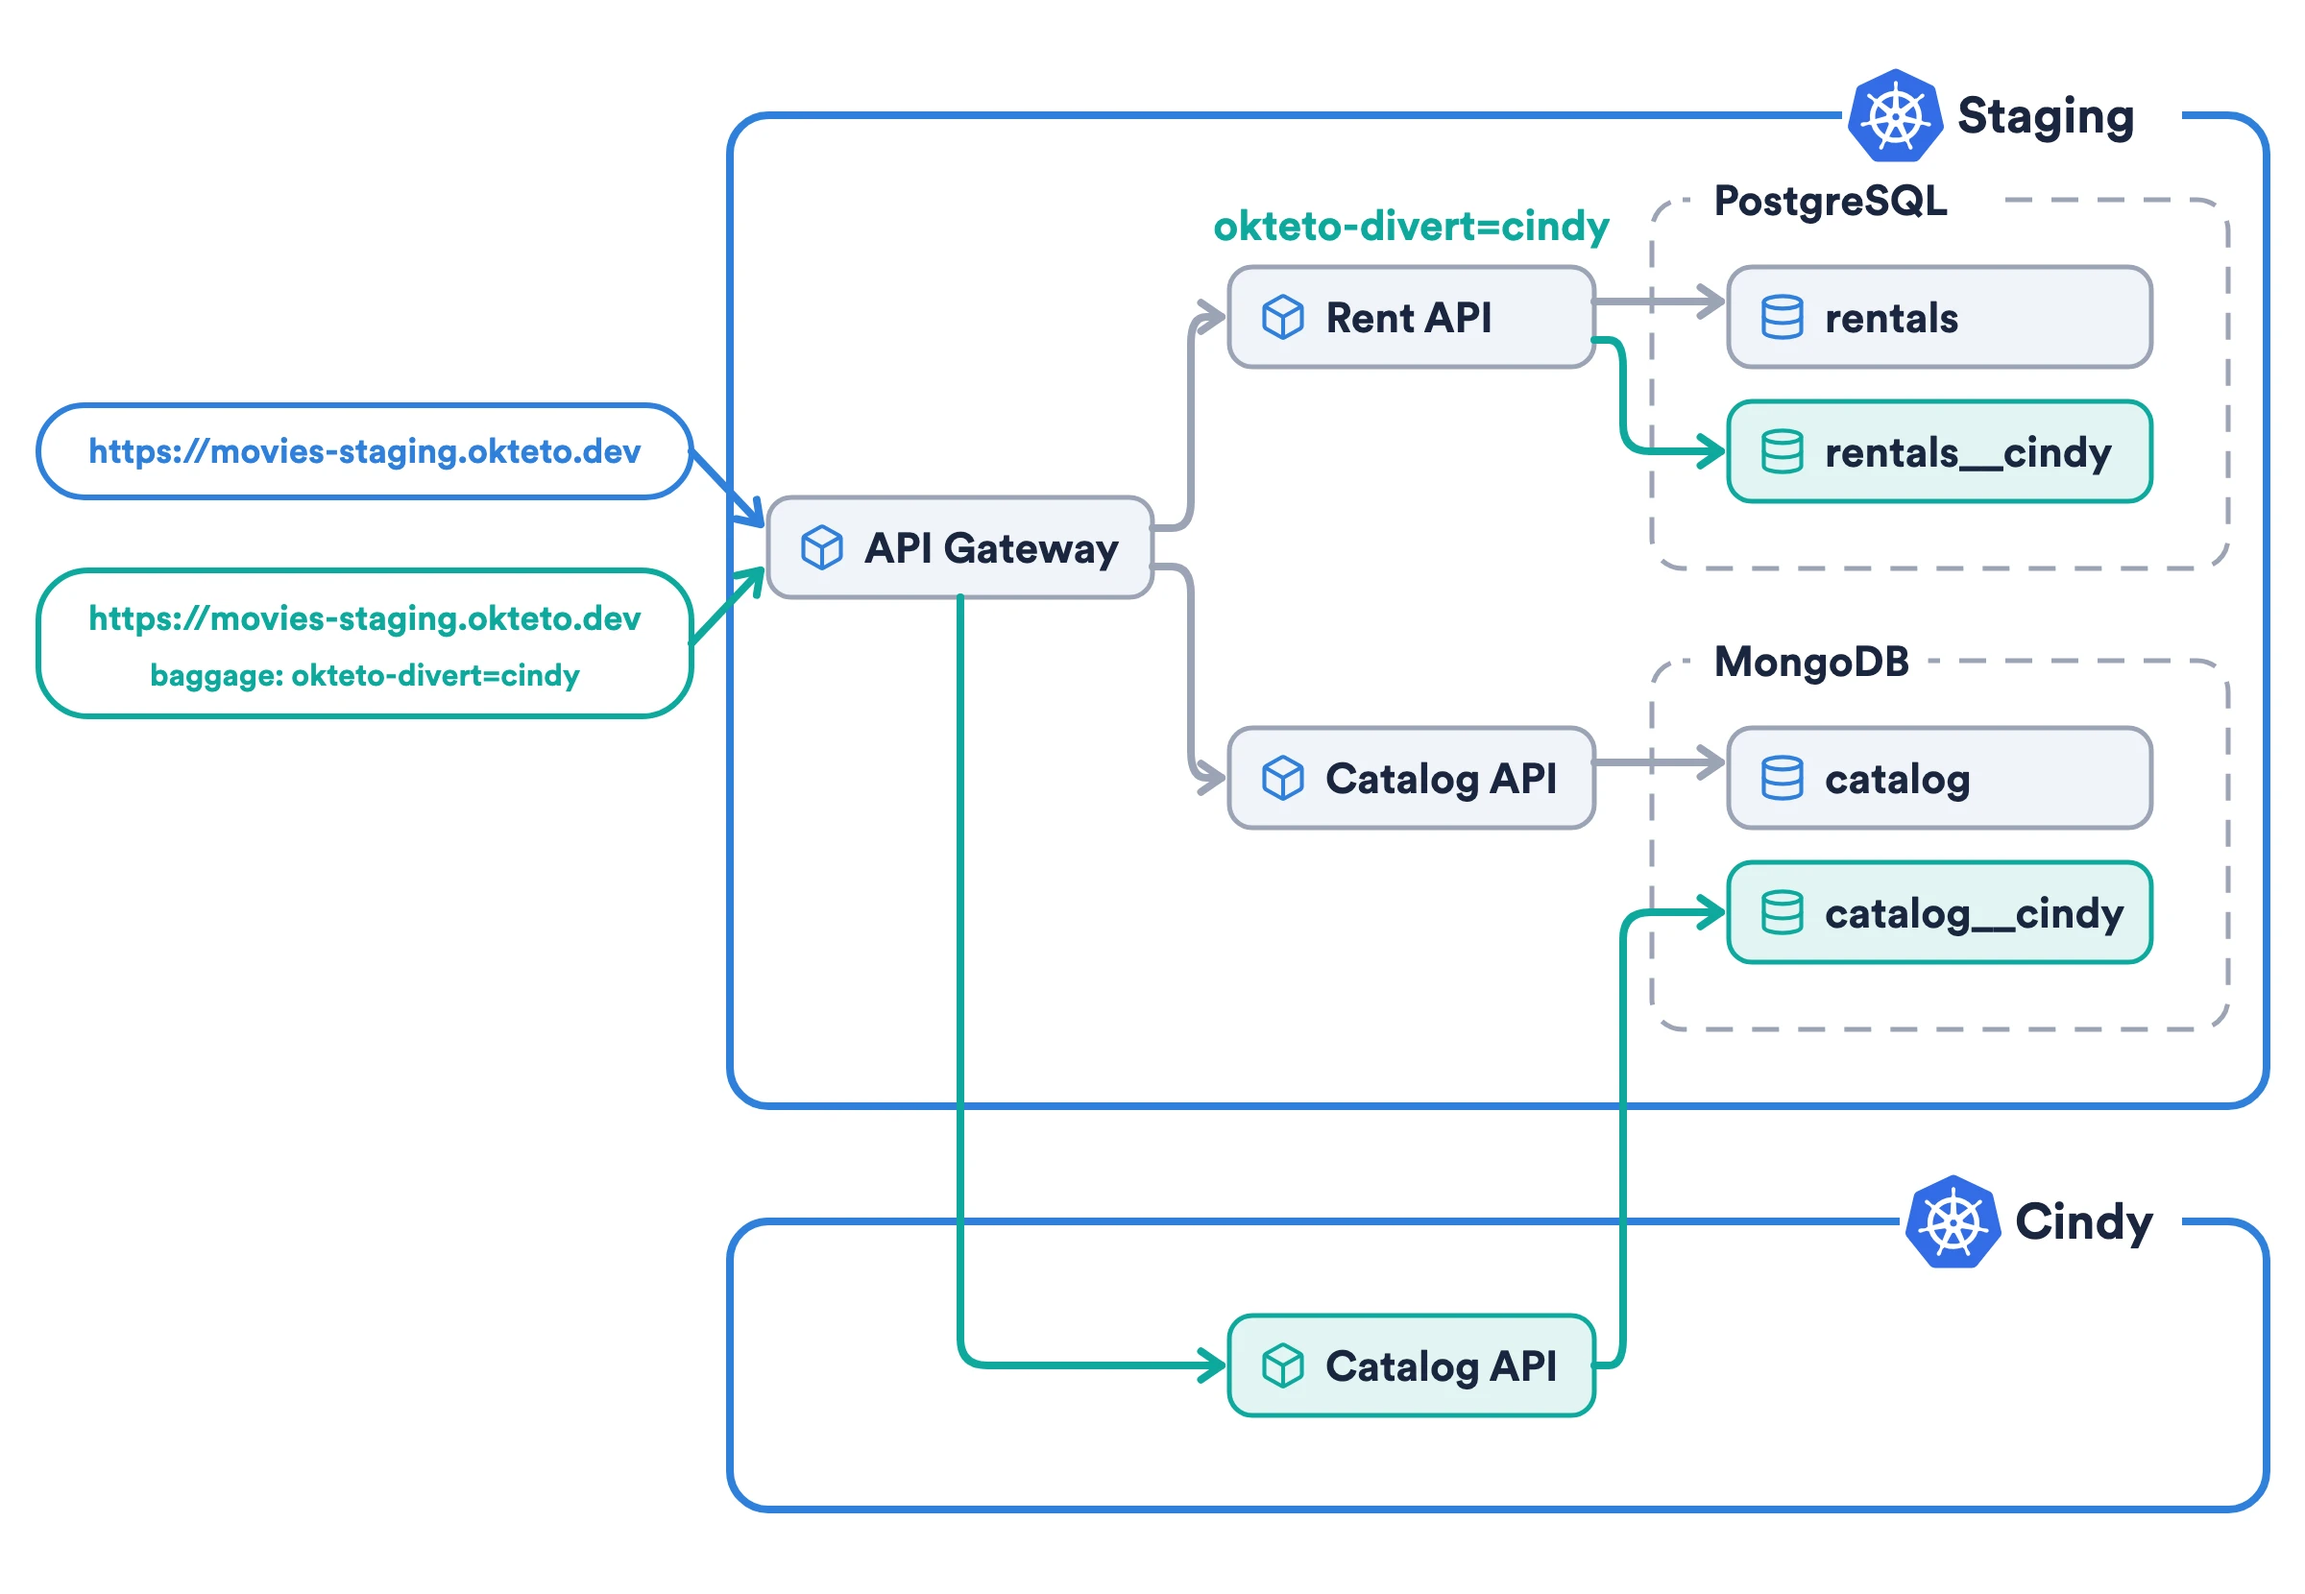
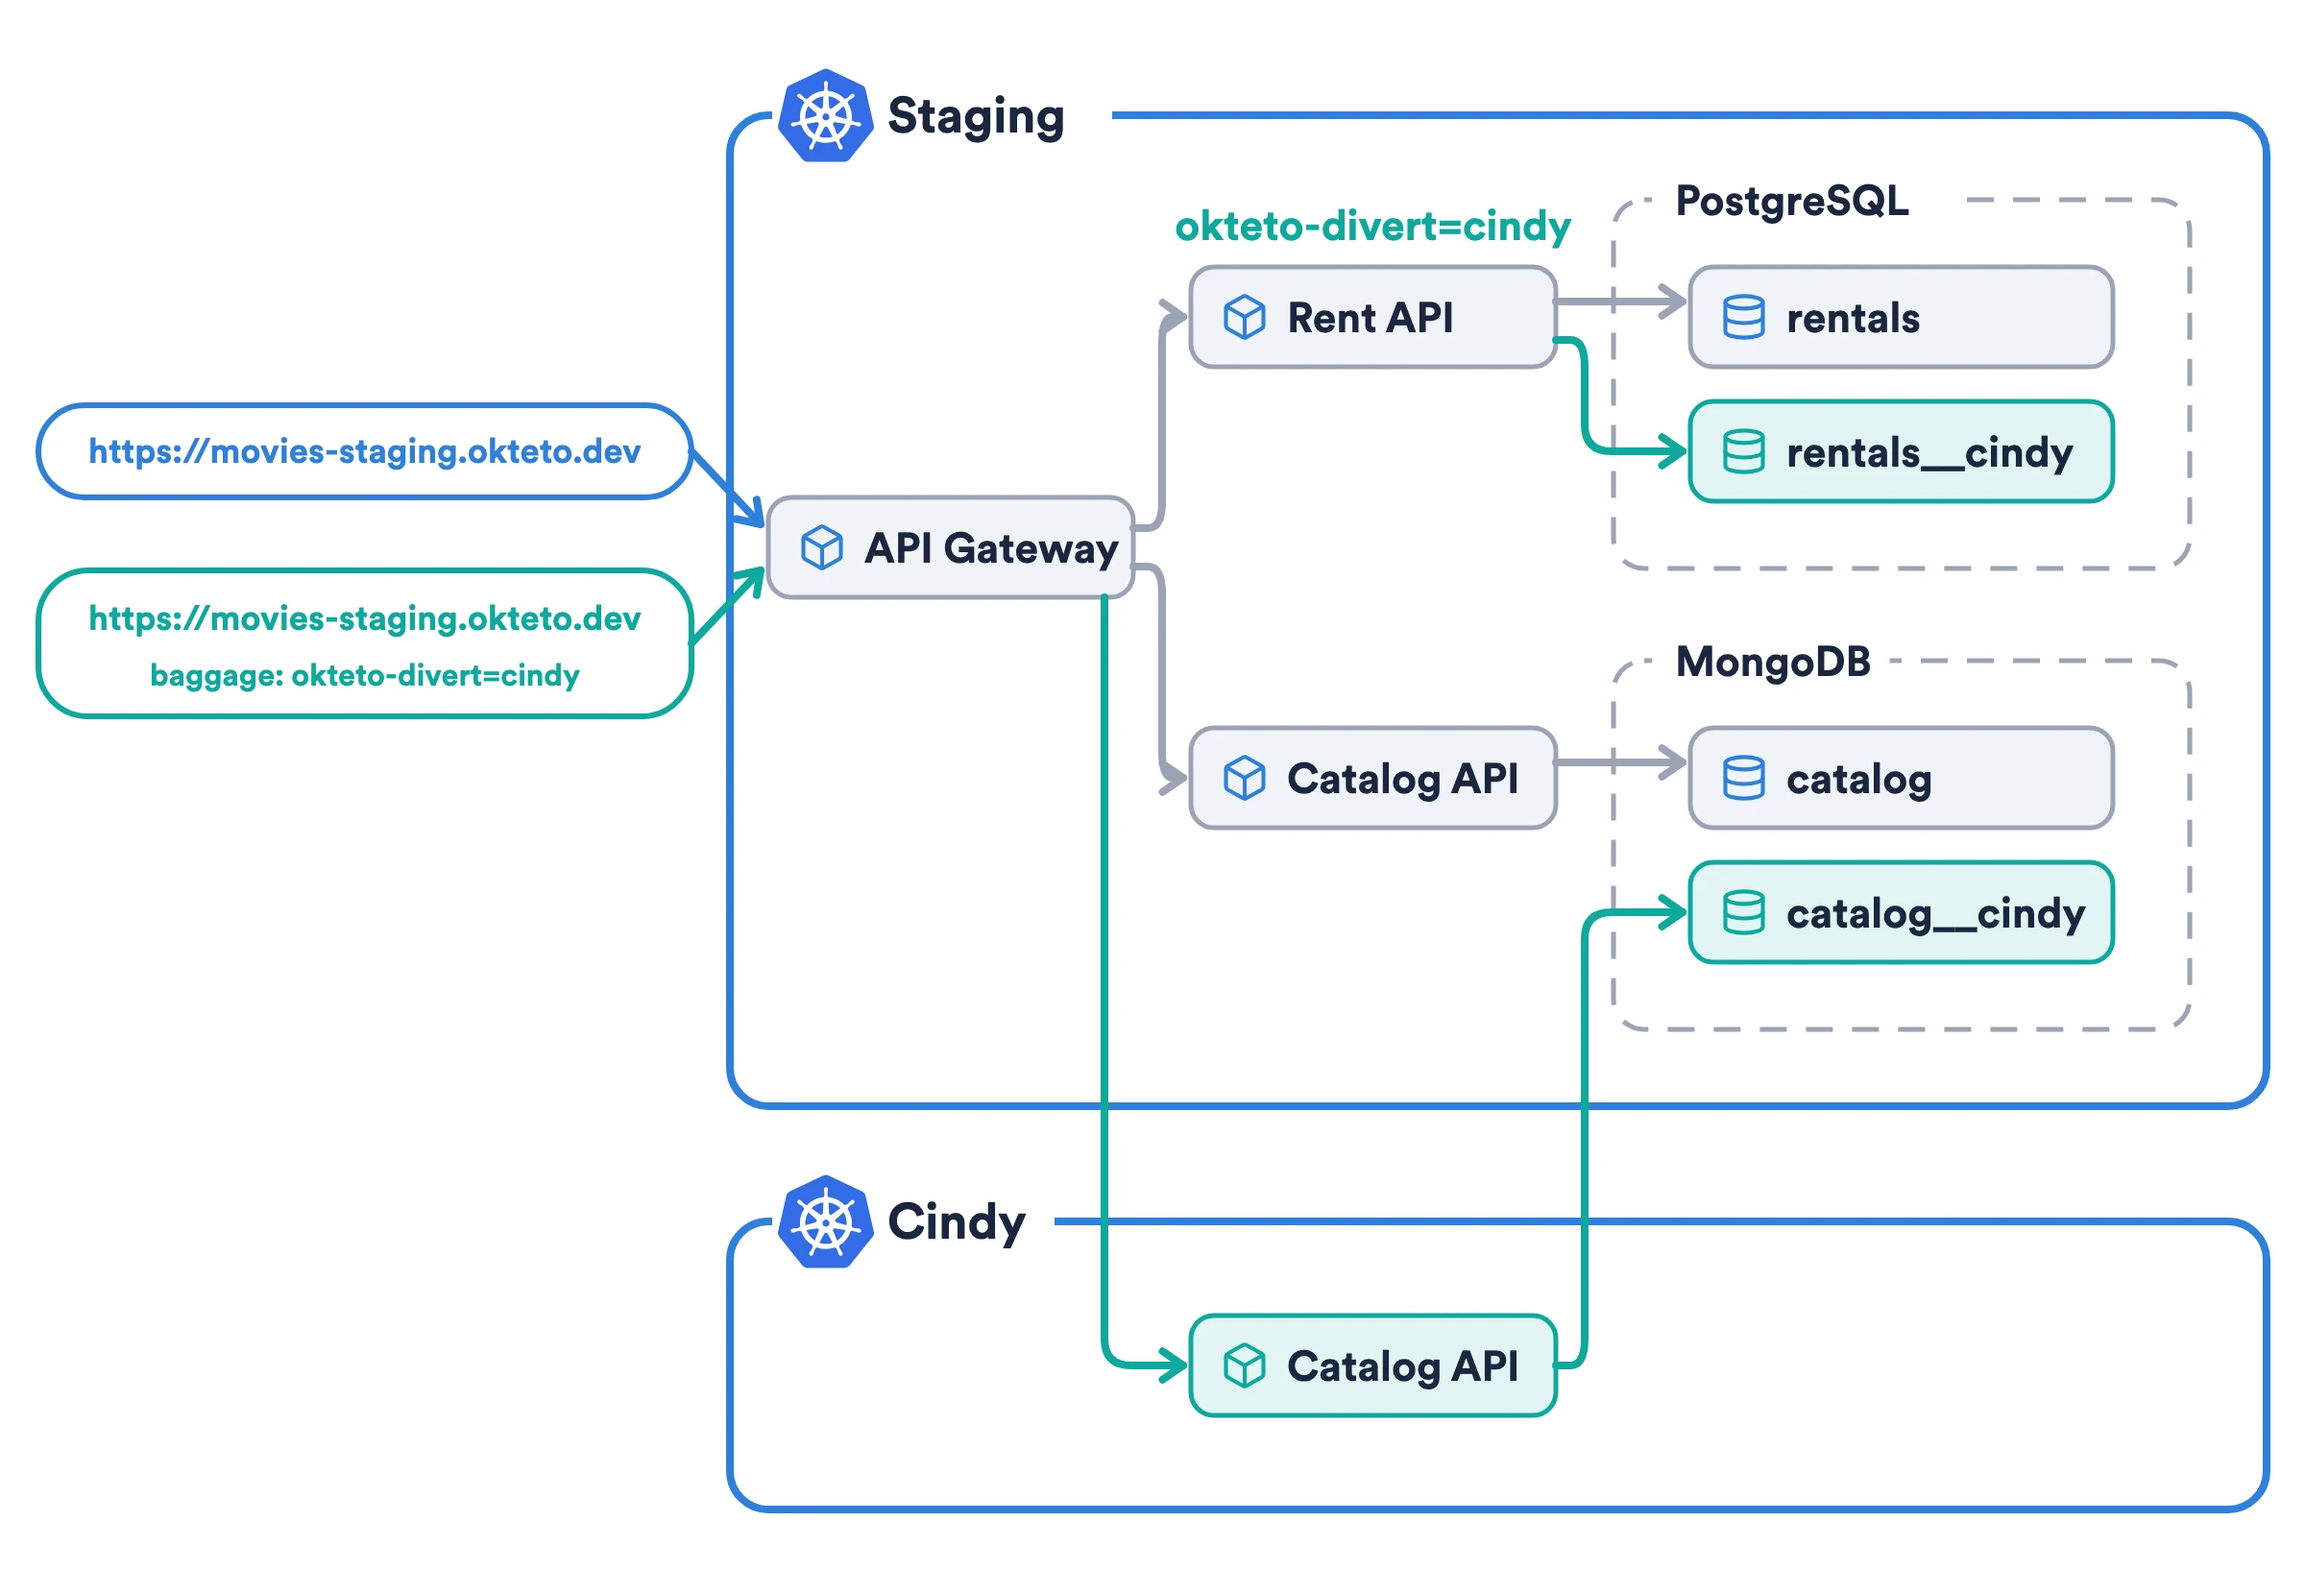
Divert diagrams: names at the left, no line over them, and one gap to the border
- The Kubernetes mark and the name of each Namespace go at the left of its
  top edge in every diagram. The arrows that used to cross the name now
  enter through the left border, or at the right of the name.
- A dashed group keeps 40px to the right and bottom borders of its
  Namespace in every wide diagram, and 20px to the side borders in the
  stacked ones.
- AGENTS.md and STYLE_GUIDE.md state the three rules.

diff --git a/AGENTS.md b/AGENTS.md
@@ -123,7 +123,9 @@ Diagrams in the docs share these shapes. The `deploy-movies-app` and `environmen
   - A box inside another keeps the same distance to its container wherever it appears: the gap between a dashed group and the bottom of its Namespace is the same in every Namespace.
   - An element that feeds two others sits halfway between them, and its two arrows mirror each other. Two elements that feed one enter it at the same distance from its center.
   - An arrow that enters a box has room: leave about 50px between the border it crosses and the element it points to, so the arrowhead doesn't touch the border.
-  - An arrow never runs over a label. When arrows enter a Namespace through the left of its top edge, put its name at the right of the edge.
+  - No line runs over a label or over the name of a Namespace. Route the arrow around it: into the Namespace through its left border, or through its top edge at the right of the name.
+  - In a diagram with several Namespaces, such as the ones of Divert, the Kubernetes mark and the name of each Namespace (`Staging`, `Cindy`) always go at the left of its top edge, in every diagram of the section.
+  - A dashed group keeps the same distance to the border of its Namespace in every diagram of a section: 40px to the right and bottom borders in the wide version, and 20px to the side borders in the stacked version for phones.
 - **Text hierarchy:** in an endpoint with a second line, such as a request header under its URL, the second line is smaller than the URL.
 
 ### Logos and icons

diff --git a/STYLE_GUIDE.md b/STYLE_GUIDE.md
@@ -211,7 +211,7 @@ Images inside a page (docs, tutorials, and blog posts) have a white background, 
 
 Diagrams and covers are drawn with `scripts/covers` in the docs, the tutorials, and the blog alike (diagrams with `background: 'white'`): see "Images" in [`AGENTS.md`](AGENTS.md#images).
 
-Diagrams are symmetric. Before you publish one, check that every box has the same padding above and below its content and on both sides, that boxes of the same kind use the same paddings across the diagrams of a page, that an element connected to two others sits halfway between them with mirrored arrows, and that no arrowhead touches the border it just crossed or runs over a label. The full checklist is in [`AGENTS.md`](AGENTS.md#images).
+Diagrams are symmetric. Before you publish one, check that every box has the same padding above and below its content and on both sides, that boxes of the same kind use the same paddings across the diagrams of a page, that an element connected to two others sits halfway between them with mirrored arrows, that no arrowhead touches the border it just crossed, and that no line runs over a label or over the name of a Namespace. In the diagrams of a section, the name of a Namespace always goes at the left of its top edge, and a dashed group keeps the same distance to the border of its Namespace. The full checklist is in [`AGENTS.md`](AGENTS.md#images).
 
 ### Version numbers
 
